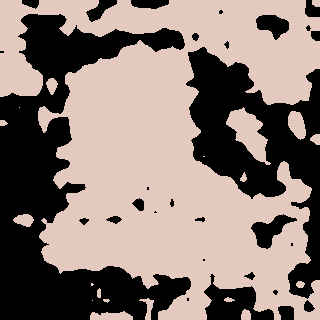
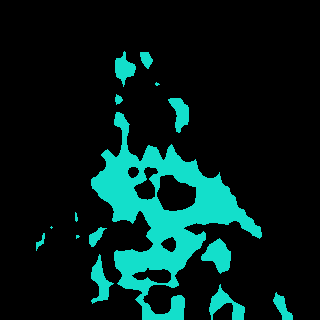
ready for feedback

diff --git a/test_segmentation.py b/test_segmentation.py
@@ -7,7 +7,7 @@ import torch
 import argparse
 import numpy as np
 
-from models.segmentor.deeplabv3 import DeepLab
+from models.segmentor.deeplabv3 import DeepLabv3, DeepLabv3Plus
 from module.segmentator import Segmentor
 from utils.module_select import get_model
 from utils.yaml_helper import get_train_configs
@@ -29,7 +29,7 @@ def gen_random_colors(names):
     return colors
 
 
-def decode_output(output, thresh_hold=0.5):
+def decode_output(output, thresh_hold=0.0):
     # output shape : [1, 20, 320, 320]
     num_class = output.size()[1]
     for i in range(num_class):
@@ -49,6 +49,22 @@ def visualize_segmentation(output, idx, color, cfg):
     class_image = torch.permute(class_image, (1, 2, 0))
     return class_image
 
+def visualize_all_segmentation(output, names, colors, cfg):
+    # output shape : 1, 320, 320
+    image = torch.zeros((cfg['in_channels'], cfg['input_size'], cfg['input_size']))
+    output = output.expand(3, 320, 320)
+    
+    for c in range(1, 21):
+        color = colors[c-1]
+    
+        idx = output[:, :, :] == c
+        image[0, idx[0]] = color[0]
+        image[1, idx[0]] = color[1]
+        image[2, idx[0]] = color[2]
+
+    image = torch.permute(image, (1, 2, 0))
+    return image
+
 
 def main(cfg, image_name, save):
     names = parse_names(cfg['names'])
@@ -64,12 +80,12 @@ def main(cfg, image_name, save):
     
     # Load trained model
     backbone = get_model(cfg['backbone'])
-    model = DeepLab(Backbone=backbone, num_classes=cfg['classes'], in_channels=cfg['in_channels'])
+    model = DeepLabv3(Backbone=backbone, num_classes=cfg['classes'], in_channels=cfg['in_channels'])
     if torch.cuda.is_available:
         model = model.to('cuda')
     
     model_module = Segmentor.load_from_checkpoint(
-        './saved/ResNet_DeepLabv3_Pascal/version_0/checkpoints/last.ckpt',
+        '/home/insig/Segmentation/saved/ResNet_DeepLabv3_Pascal/version_2/checkpoints/last.ckpt',
         model=model
     )
     model_module.eval()
@@ -77,13 +93,21 @@ def main(cfg, image_name, save):
 
     output = model_module(image_inp)
     output = decode_output(output)
+    # output = torch.argmax(output, dim=1)
+
+    # result = visualize_all_segmentation(output, names, colors, cfg)
+    # result = result.detach().cpu().numpy()
+    # cv2.imwrite('./inference/result/inferece.png', result)
+
+    
+    #Decode Class Split - except argmax
 
     for i in range(output.size()[1]):
         color = colors[i]
         class_image = visualize_segmentation(output[:, i, :, :], i, color, cfg)
         class_image = class_image.detach().cpu().numpy()
         cv2.imwrite('./inference/result/'+str(i)+'_class.png', class_image)
-
+    
 
 if __name__ == '__main__':
     parser = argparse.ArgumentParser()

diff --git a/models/loss/focal_loss.py b/models/loss/focal_loss.py
@@ -4,48 +4,30 @@ from torch import nn
 
 
 class FocalLoss(nn.Module):
-    def __init__(self, alpha=0.25, gamma=2.):
+    def __init__(self, alpha=0.25, gamma=2.0):
         super(FocalLoss, self).__init__()
         self.alpha = alpha
         self.gamma = gamma
 
     def forward(self, input):
+        # input shape : ([pred, batch])
         pred, target = input
+        # pred shape : (batch, classes, height, width)
+        # target shape : (batch, classes, height, width)
         batch_size = pred.shape[0]
+        class_size = pred.shape[1]
 
-        focal_loss = []
+        total_loss = []
         for b in range(batch_size):
-            ce_loss = F.cross_entropy(
-                pred[b], target[b], reduction='none'
-            )
-            pt = torch.exp(-ce_loss)
-            batch_focal_loss = self.alpha * (1-pt)**self.gamma * ce_loss
-            focal_loss.append(batch_focal_loss)
+            batch_loss = []
+            for c in range(class_size):
+                ce_loss = F.cross_entropy(
+                    pred[b, c, :, :], target[b, c, :, :]
+                )
+                pt = torch.exp(-ce_loss)
+                focal_loss = self.alpha * (1 - pt) ** self.gamma * ce_loss
+                batch_loss.append(focal_loss)
+            batch_loss = torch.stack(batch_loss).sum()
+            total_loss.append(batch_loss)
 
-        return torch.stack(focal_loss).mean()
-
-    # def forward(self, input):
-    #     total_loss = []
-    #     pred, target = input
-    #     pred = torch.clamp(pred, 1e-7, 1.)
-    #     batch_size = pred.shape[0]
-
-    #     for b in range(batch_size):
-    #         loss = self.loss_function(pred[b], target[b])
-    #         loss = loss.sum()
-    #         total_loss.append(loss)
-        
-    #     return torch.stack(total_loss).mean()
-        
-
-
-
-    # def loss_function(self, pred, target):
-    #     alpha_factor = torch.where(
-    #         torch.eq(target, 1.), self.alpha, 1.-self.alpha)
-    #     focal_weight = torch.where(torch.eq(target, 1.), 1.-pred, pred)
-    #     focal_weight = alpha_factor * torch.pow(focal_weight, self.gamma)
-    #     binary_ce = -(target * torch.log(pred) +
-    #                   (1.-target)*torch.log(1.-pred))
-    #     loss = focal_weight*binary_ce
-    #     return loss
+        return torch.stack(total_loss).mean()

diff --git a/models/layers/convolution.py b/models/layers/convolution.py
@@ -36,3 +36,45 @@ class Conv2dBn(nn.Module):
     def forward(self, input):
         output = self.conv(input)
         return self.bn(output)
+
+
+class DepthwiseConv2dBnRelu(nn.Module):
+    def __init__(self, in_channels, kernel_size=3, stride=1, padding=1,
+                    dilation=1, bias=False, padding_mode='zeros'):
+        super(DepthwiseConv2dBnRelu, self).__init__()
+        self.conv = Conv2dBnRelu(in_channels=in_channels, out_channels=in_channels, kernel_size=kernel_size, stride=stride, padding=padding,
+                                    dilation=dilation, groups=in_channels, bias=bias, padding_mode=padding_mode)
+        self.bn = nn.BatchNorm2d(in_channels)
+        self.act = nn.ReLU(inplace=True)
+
+    def forward(self, input):
+        output = self.conv(input)
+        output = self.bn(output)
+        output = self.act(output)
+        return output
+
+class DepthSepConv2dBnRelu(nn.Module):
+    def __init__(self, in_channels, out_channels, kernel_size=3, stride=1):
+        super(DepthSepConv2dBnRelu, self).__init__()
+        self.depthwise = DepthwiseConv2dBnRelu(in_channels=in_channels, kernel_size=kernel_size, stride=stride)
+        self.pointwise = Conv2dBnRelu(in_channels=in_channels, out_channels=out_channels, kernel_size=1, stride=1, padding=0,
+                                        dilation=1, groups=1, bias=False, padding_mode='zeros')
+        self.act = nn.ReLU(inplace=True)
+
+    def forward(self, input):
+        output = self.depthwise(input)
+        output = self.pointwise(output)
+        output = self.act(output)
+        return output
+
+class DepthSepConv2dBn(nn.Module):
+    def __init__(self, in_channels, out_channels, kernel_size=3, stride=1):
+        super(DepthSepConv2dBn, self).__init__()
+        self.depthwise = DepthwiseConv2dBnRelu(in_channels=in_channels, kernel_size=kernel_size, stride=stride)
+        self.pointwise = Conv2dBnRelu(in_channels=in_channels, out_channels=out_channels, kernel_size=1, stride=1, padding=0,
+                                        dilation=1, groups=1, bias=False, padding_mode='zeros')
+
+    def forward(self, input):
+        output = self.depthwise(input)
+        output = self.pointwise(output)
+        return output

diff --git a/models/segmentor/deeplabv3.py b/models/segmentor/deeplabv3.py
@@ -3,12 +3,12 @@ import torch
 from torch import nn
 from models.layers.convolution import Conv2dBn
 from models.initialize import weight_initialize
-from models.segmentor.ASPP_module import ASPP, Decoder
+from models.segmentor.ASPP_module import ASPP, Decoderv3
 
 
-class DeepLab(nn.Module):
+class DeepLabv3(nn.Module):
     def __init__(self, Backbone, num_classes, in_channels=3):
-        super(DeepLab, self).__init__()
+        super(DeepLabv3, self).__init__()
         self.backbone_output = 2048
         self.neck_input = 512
         self.last_layer = 40
@@ -17,7 +17,7 @@ class DeepLab(nn.Module):
         self.pre_aspp = Conv2dBn(in_channels=self.backbone_output, out_channels=self.neck_input, kernel_size=1, stride=1, padding=0,
                             dilation=1, groups=1, bias=True, padding_mode='zeros')
         self.aspp = ASPP(in_channels= self.neck_input, out_channels= 256, up_scale=self.last_layer)
-        self.decoder = Decoder(out_channels=256, branch=5, num_classes=num_classes)
+        self.decoder = Decoderv3(out_channels=256, branch=5, num_classes=num_classes)
         weight_initialize(self)
 
     def forward(self, x):
@@ -32,11 +32,9 @@ class DeepLab(nn.Module):
         return output
 
 
-
-
 if __name__ == '__main__':
     from models.backbone.resnet import ResNet
-    model = DeepLab(
+    model = DeepLabv3(
         Backbone=ResNet,
         num_classes=20,
         in_channels=3,

diff --git a/train_segmentation.py b/train_segmentation.py
@@ -14,7 +14,7 @@ from utils.module_select import get_model
 from utils.yaml_helper import get_train_configs
 
 from module.segmentator import Segmentor
-from models.segmentor.deeplabv3 import DeepLab 
+from models.segmentor.deeplabv3 import DeepLabv3
 import platform
 
 def add_experimental_callbacks(cfg, train_callbacks):
@@ -53,7 +53,7 @@ def train(cfg, ckpt=None):
     )
 
     backbone = get_model(cfg['backbone'])
-    model = DeepLab(Backbone=backbone, num_classes=cfg['classes'], in_channels=cfg['in_channels'])
+    model = DeepLabv3(Backbone=backbone, num_classes=cfg['classes'], in_channels=cfg['in_channels'])
     model_module = Segmentor(model, cfg, epoch_length=data_module.train_dataloader().__len__())
     
     callbacks = [

diff --git a/models/segmentor/ASPP_module.py b/models/segmentor/ASPP_module.py
@@ -40,9 +40,9 @@ class ASPP(nn.Module):
         output = torch.cat([branch1, branch2, branch3, branch4, branch5], axis=1)
         return output
 
-class Decoder(nn.Module): # using deeplabv3
+class Decoderv3(nn.Module): # using deeplabv3
     def __init__(self, out_channels, branch, num_classes):
-        super(Decoder, self).__init__()
+        super(Decoderv3, self).__init__()
         self.conv = Conv2dBnRelu(in_channels=out_channels * branch, out_channels=out_channels, kernel_size=1, stride=1, padding=0, dilation=1,
                         groups=1, bias=True, padding_mode='zeros')
         self.out = nn.Conv2d(in_channels=out_channels, out_channels=num_classes, kernel_size=1)

diff --git a/models/backbone/resnet.py b/models/backbone/resnet.py
@@ -1,4 +1,3 @@
-from turtle import down
 from ..layers.convolution import Conv2dBnRelu, Conv2dBn
 from ..layers.blocks import BasicResNetBlock, BottleneckResNetBlock
 from ..initialize import weight_initialize

diff --git a/README.md b/README.md
@@ -59,6 +59,9 @@ Semantic Segmentation 모델 Train 스크립트 입니다.
 
     python train_segmenntation.py --cfg configs/seg_resnet.yaml
 
+## Test DeepLabv3
+![deeplabv3](./doc/deeplabv3/deeplabv3.PNG)
+
 ## TODOs
 - Backbone Networks Customizing
 - Deployment를 위한 ONNX Conversion Script, Torch Script 추가
